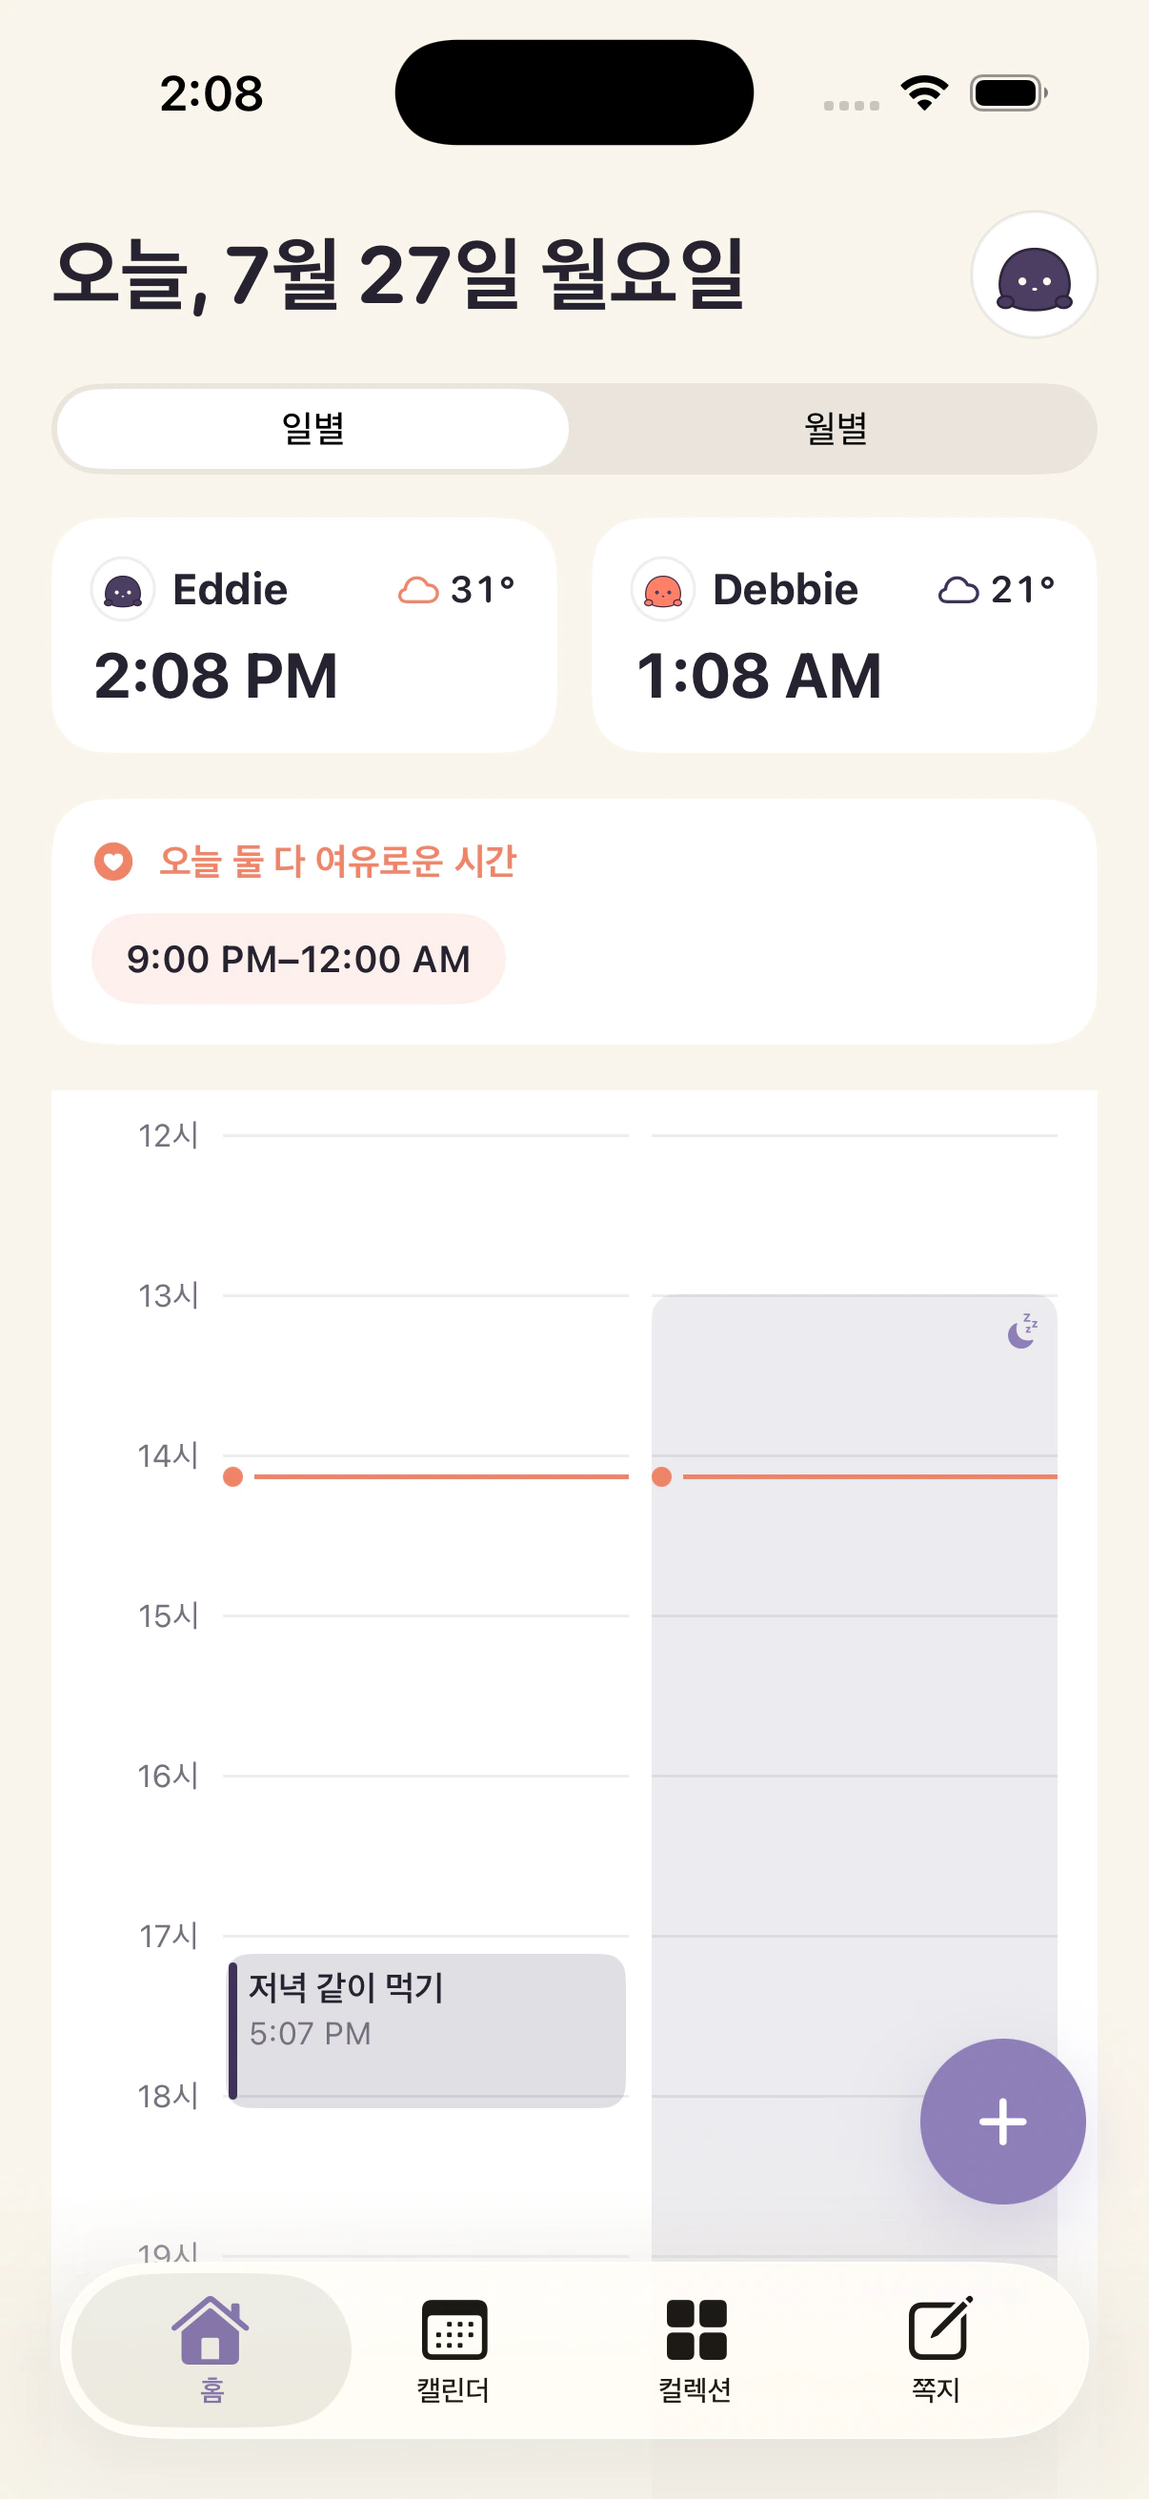
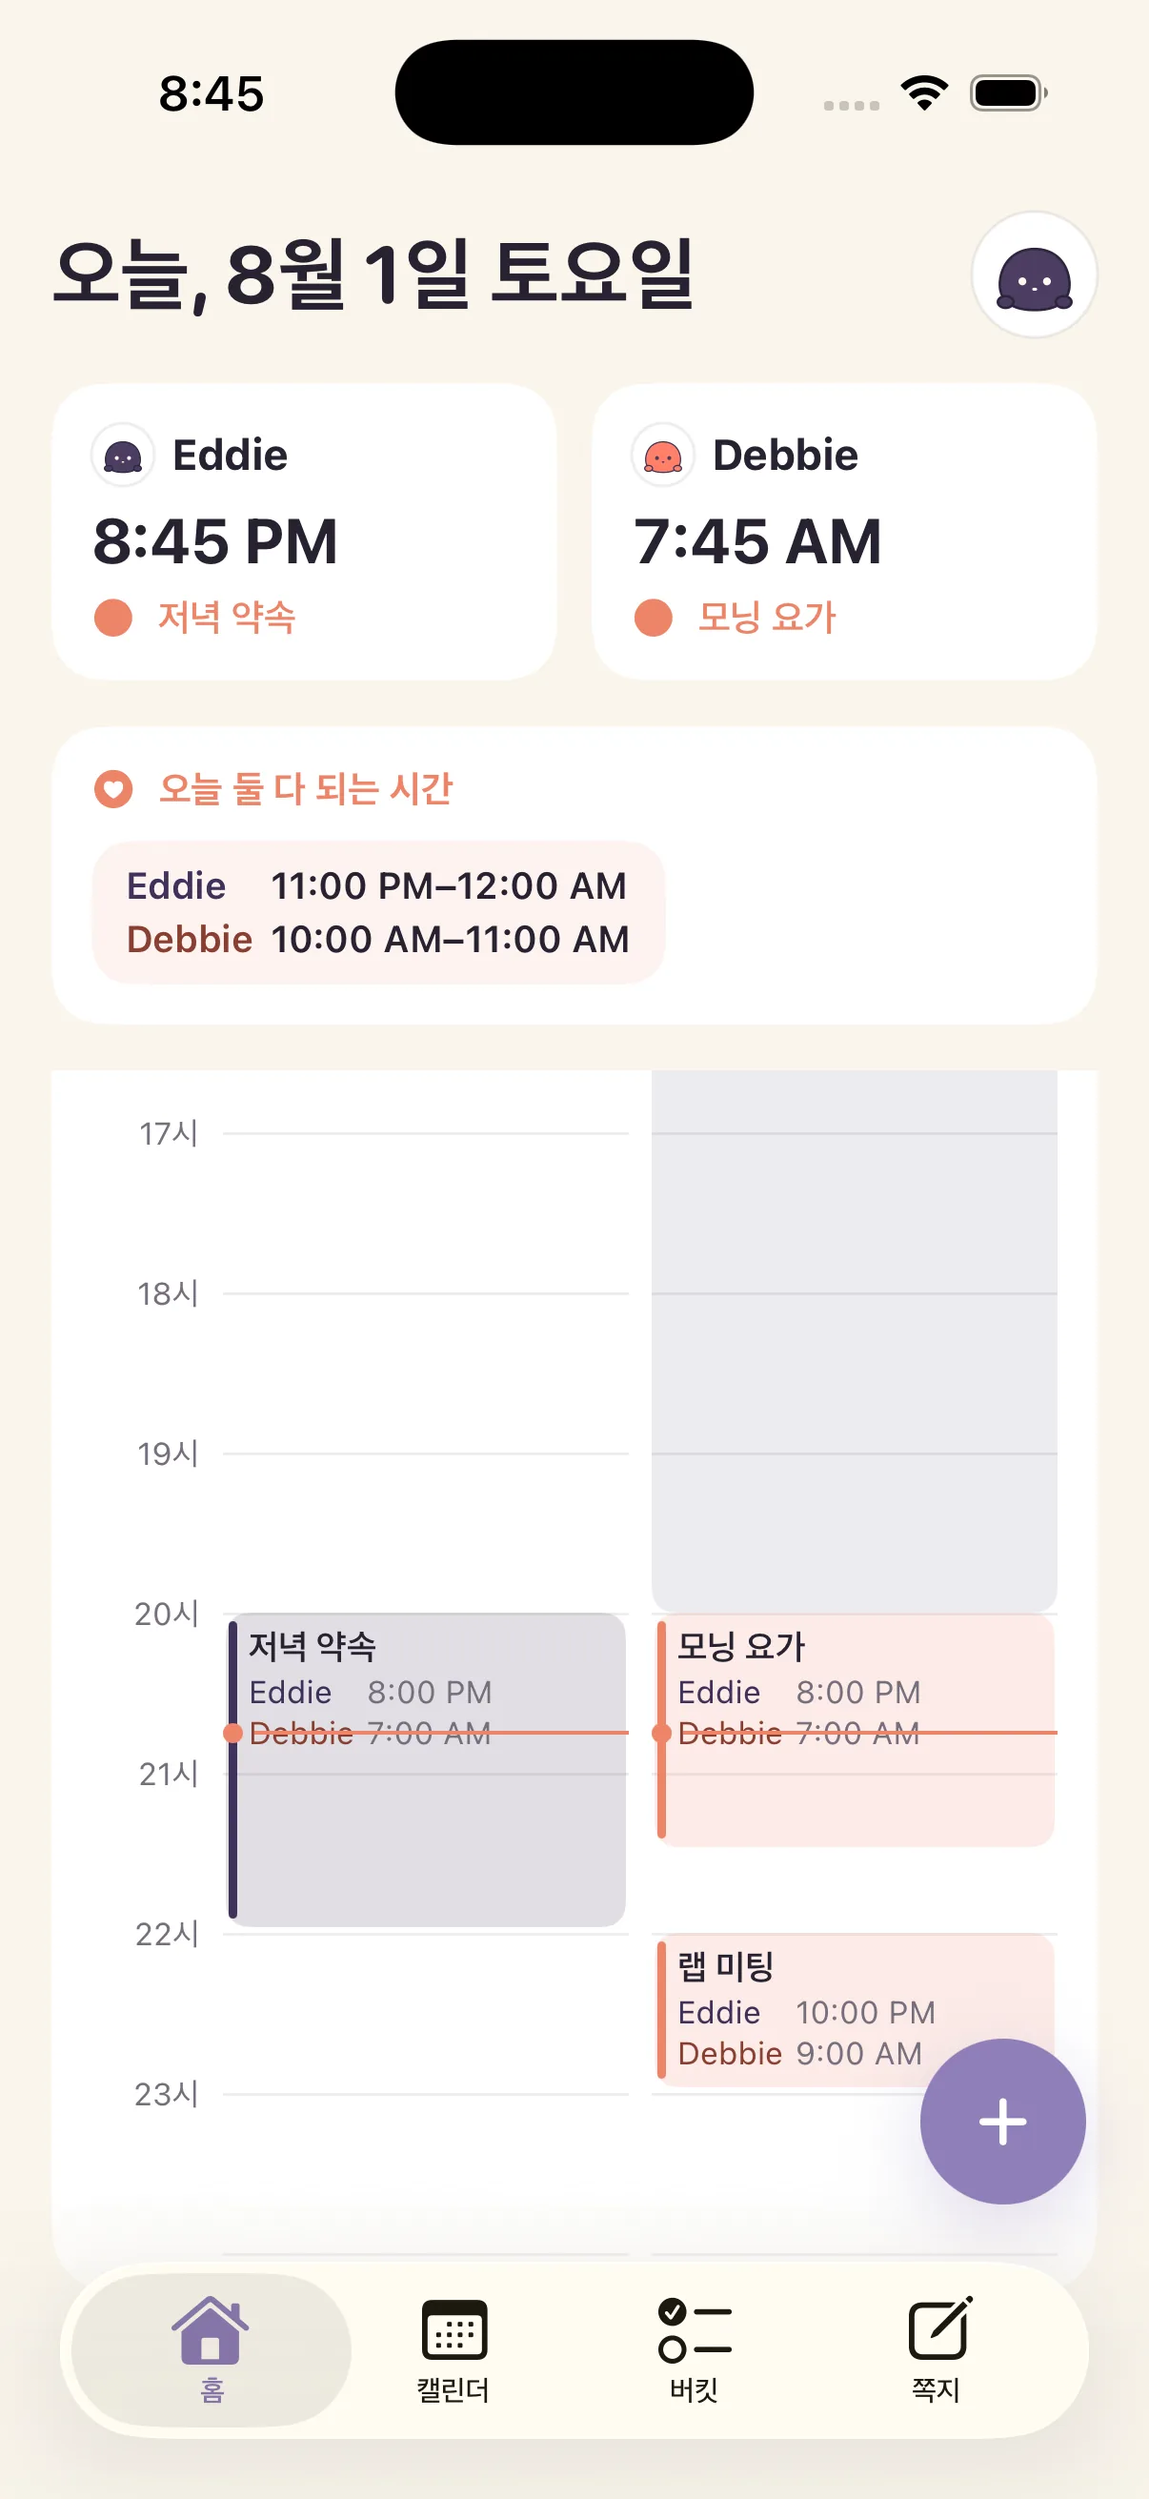
fix: 랜딩을 지금 앱과 같은 말·같은 화면으로 맞춘다
이용약관은 이미 구독을 반영했는데 랜딩 본문만 평생권 시절에 멈춰 있었다.
App Store의 마케팅 URL로 걸리는 페이지라 여기서 틀리면 심사관도 사용자도
같은 오해를 한다.

말:
- "Naru Plus" → "Naru 멤버십". 앱 안에는 Plus라는 말이 한 군데도 없다
- "컬렉션" → "버킷". 마찬가지로 앱은 버킷만 쓴다
- "함께 깨어 있는 시간"·"둘 다 여유로운 시간" → "둘 다 되는 시간".
  앱·위젯·알림이 전부 이 말을 쓴다
- 버킷 정원 50개 → 100개 (0062에서 올렸다)
- "결제수단 등록과 자동 결제 없음"이 이제 거짓이다. 월·연 구독은 자동 갱신된다.
  체험이 자동 결제되지 않는다는 사실만 남기고, 갱신·해지 조건을 약관과 같은
  내용으로 덧붙인다

화면:
- 스크린샷 다섯 장을 오늘 찍은 것으로 교체. 옛 이미지에는 "둘 다 여유로운 시간",
  없어진 일별/월별 토글, 탭바 "컬렉션"이 그대로 박혀 있었다
- 위젯 섹션을 실제 라인업(다이얼·둘 다 되는 시간·같은 하늘·상대의 하루·최근 쪽지)에 맞춤
- og 카드도 같은 문구로 다시 캡처

diff --git a/index.html b/index.html
@@ -7,19 +7,19 @@
   <meta name="google-site-verification" content="WSGyWVvkNUWFHzn_Nf76sFw_N04LbT2hM5UgcbsUwQw">
   <title>Naru — 서로의 오늘이, 한눈에 · 롱디 커플 앱</title>
   <meta name="application-name" content="Naru">
-  <meta name="description" content="함께 깨어 있는 시간을 찾아주는 커플 앱. 같이 있어도 좋지만 멀리 있을수록 더 필요해요. 앱을 만드는 두 사람이 롱디를 시작하며 직접 만들었습니다.">
+  <meta name="description" content="둘 다 되는 시간을 찾아주는 커플 앱. 하루 리듬이 다른 두 사람을 위해, 상대의 지금을 위젯 하나로 보여줍니다. 앱을 만드는 두 사람이 롱디를 시작하며 직접 만들었습니다.">
   <meta property="og:type" content="website">
   <meta property="og:locale" content="ko_KR">
   <meta property="og:site_name" content="Naru">
   <meta property="og:title" content="Naru — 서로의 오늘이, 한눈에">
-  <meta property="og:description" content="함께 깨어 있는 시간을, 나루가 찾아줘요. 같이 있어도 좋지만 멀리 있을수록 더 필요해요.">
+  <meta property="og:description" content="둘 다 되는 시간을, 나루가 찾아줘요. 멀리 있어도, 시간이 안 맞아도.">
   <!-- 공유 카드는 1200×630 PNG로 따로 만든다. 세로 스크린샷은 카드에서 잘리고,
        카카오톡·트위터 등 일부 크롤러는 WebP를 읽지 못한다.
        원본은 og-card.html이고, 문구를 바꾸면 거기서 다시 캡처한다. -->
   <meta property="og:image" content="https://naru-app.store/assets/og-card.png">
   <meta property="og:image:width" content="1200">
   <meta property="og:image:height" content="630">
-  <meta property="og:image:alt" content="Naru — 서로의 오늘이, 한눈에. 서울 오후 2시와 뉴욕 새벽 1시의 하루를 나란히 놓고 둘 다 여유로운 시간을 오후 9시부터 자정으로 찾아낸 카드">
+  <meta property="og:image:alt" content="Naru — 서로의 오늘이, 한눈에. 서울 오후 2시와 뉴욕 새벽 1시의 하루를 나란히 놓고 둘 다 되는 시간을 오후 9시부터 자정으로 찾아낸 카드">
   <meta name="twitter:card" content="summary_large_image">
   <meta name="twitter:image" content="https://naru-app.store/assets/og-card.png">
   <link rel="canonical" href="https://naru-app.store/">
@@ -50,7 +50,7 @@
       <nav aria-label="주요 메뉴">
         <a href="#widgets">위젯</a>
         <a href="#features">기능</a>
-        <a href="#plus">Naru Plus</a>
+        <a href="#plus">Naru 멤버십</a>
       </nav>
       <a class="header-action" href="#testflight">테스트 신청</a>
     </div>
@@ -62,8 +62,8 @@
         <p class="overline">Naru</p>
         <h1>서로의 오늘이,<br><em>한눈에.</em></h1>
         <p class="hero-description">
-          함께 깨어 있는 시간을, 나루가 찾아줘요.<br>
-          같이 있어도 좋지만 멀리 있을수록 더 필요해요.
+          둘 다 되는 시간을, 나루가 찾아줘요.<br>
+          멀리 있어도, 시간이 안 맞아도.
         </p>
         <div class="hero-actions">
           <a class="release-notice-button" href="#testflight">TestFlight 테스트 신청</a>
@@ -88,7 +88,7 @@
 
       <div class="hero-product" aria-label="Naru 홈 화면 실제 스크린샷">
         <figure class="device device-hero">
-          <img src="./assets/screens/home-new-york.webp" alt="Eddie와 Debbie의 현지 시간, 날씨와 하루 타임라인을 보여주는 Naru 홈 화면" width="1206" height="2622">
+          <img src="./assets/screens/home-new-york.webp" alt="Eddie의 저녁 8시 45분과 Debbie의 아침 7시 45분, 그리고 오늘 둘 다 되는 시간을 보여주는 Naru 홈 화면" width="1206" height="2622">
         </figure>
       </div>
     </section>
@@ -97,7 +97,7 @@
       <div class="overlap-proof-copy">
         <p class="overline">ONE MOMENT, TWO DAYS</p>
         <h2 id="overlap-proof-title">같은 순간을,<br>각자의 시간으로.</h2>
-        <p>내 일정과 상대 일정을 각자의 현지 시간에 맞춰, 둘 다 비는 시간까지 한 화면에 보여줘요.</p>
+        <p>내 일정과 상대 일정을 각자의 현지 시간에 맞춰, 둘 다 되는 시간까지 한 화면에 보여줘요.</p>
       </div>
       <div class="overlap-board" aria-label="서울과 뉴욕의 하루를 비교한 시간대 예시">
         <div class="overlap-row">
@@ -127,7 +127,7 @@
         <div class="overlap-result">
           <span class="overlap-result-line" aria-hidden="true"></span>
           <div>
-            <small>오늘 둘 다 여유로운 시간</small>
+            <small>오늘 둘 다 되는 시간</small>
             <strong>9:00 PM–12:00 AM</strong>
           </div>
           <span class="overlap-status">서울 기준</span>
@@ -167,7 +167,7 @@
     <section class="now-feature page-width">
       <div class="now-visual">
         <figure class="device device-detail">
-          <img src="./assets/screens/home-new-york.webp" alt="Eddie와 Debbie의 하루를 나란히 비교하는 Naru 실제 홈 화면" width="1206" height="2622">
+          <img src="./assets/screens/home-new-york.webp" alt="두 사람의 일정을 각자의 현지 시간으로 나란히 놓은 Naru 홈 타임라인" width="1206" height="2622">
         </figure>
       </div>
       <div class="now-copy">
@@ -183,8 +183,8 @@
         </article>
         <article>
           <span>03</span>
-          <h3>둘 다 여유로운 시간</h3>
-          <p>둘 다 깨어 있고 비는 구간을 찾아줘요.</p>
+          <h3>둘 다 되는 시간</h3>
+          <p>둘 다 여유로운 구간을 나루가 찾아줘요.</p>
         </article>
       </div>
     </section>
@@ -196,8 +196,8 @@
         <h2>앱을 열지 않아도,<br>서로의 오늘은 가까이에.</h2>
       </div>
       <p class="principle-copy">
-        상대의 시간·날씨·다음 일정은 <strong>연결만 하면 바로</strong> 홈 화면에 뜹니다.
-        같은 하늘, 붉은 실, 겹치는 시간처럼 둘을 한 장에 담는 위젯은 Plus에서 열려요.
+        상대의 시간과 하루는 <strong>연결만 하면 바로</strong> 홈 화면에 뜹니다.
+        같은 하늘, 상대의 하루, 둘 다 되는 시간, 최근 쪽지처럼 둘을 한 장에 담는 위젯은 멤버십에서 열려요.
       </p>
     </section>
 
@@ -220,27 +220,27 @@
           <p>다음 휴가, 포르투갈</p>
         </div>
         <figure class="widget-screenshot tilt-surface">
-          <img src="./assets/screens/widgets.webp" alt="Debbie의 현지 시간, 날씨와 팀 미팅을 보여주는 Naru 실제 iPhone 홈 화면 위젯" width="1206" height="2622">
+          <img src="./assets/screens/widgets.webp" alt="두 개의 링이 각자의 하루를 그리는 Naru 다이얼 위젯이 놓인 iPhone 홈 화면" width="1206" height="2622">
         </figure>
       </div>
       <div class="widget-copy">
         <article>
           <span>01</span>
-          <h3>그 사람의 지금</h3>
-          <p>상대의 현지 시간, 날씨와 다음 일정을 한눈에.</p>
+          <h3>두 사람의 다이얼</h3>
+          <p>두 개의 링이 각자의 하루를 그려요. 지금 어디쯤인지 한눈에.</p>
           <em class="widget-tier widget-tier-free">기본 제공</em>
         </article>
         <article>
           <span>02</span>
-          <h3>둘의 이번 주</h3>
-          <p>요일마다 둘 다 비는 시간이 코랄로 떠요.</p>
-          <em class="widget-tier widget-tier-plus">Naru Plus</em>
+          <h3>둘 다 되는 시간</h3>
+          <p>오늘 통화할 수 있는 구간이 바로 떠요.</p>
+          <em class="widget-tier widget-tier-plus">Naru 멤버십</em>
         </article>
         <article>
           <span>03</span>
-          <h3>다음 약속과 한마디</h3>
-          <p>최근 쪽지와 다음 만남 후보를 한 장에.</p>
-          <em class="widget-tier widget-tier-plus">Naru Plus</em>
+          <h3>같은 하늘 · 상대의 하루 · 최근 쪽지</h3>
+          <p>골라 담는 위젯 세 가지가 더 있어요.</p>
+          <em class="widget-tier widget-tier-plus">Naru 멤버십</em>
         </article>
       </div>
     </section>
@@ -277,12 +277,12 @@
 
       <article class="screen-story screen-story-collection tilt-card">
         <div class="story-copy">
-          <p class="story-index">COLLECTION · 02</p>
+          <p class="story-index">BUCKET · 02</p>
           <h3>발견한 순간 공유하고,<br>필요할 때 바로 찾아요.</h3>
-          <p>YouTube·Instagram·사진 앱에서 공유하면 링크, 글과 사진이 한 리스트에 저장돼요. 담은 시간과 태그를 보고 검색한 뒤, 눌러서 사진과 원문을 크게 확인할 수 있어요. 둘이 50개까지 꼭 보고 싶은 것만 가볍게 모아요.</p>
+          <p>YouTube·Instagram·사진 앱에서 공유하면 링크, 글과 사진이 한 리스트에 저장돼요. 담은 시간과 태그를 보고 검색한 뒤, 눌러서 사진과 원문을 크게 확인할 수 있어요. 둘이 100개까지 꼭 보고 싶은 것만 가볍게 모아요.</p>
         </div>
         <figure class="device device-gallery collection-device">
-          <img src="./assets/screens/collection.webp" alt="태그와 저장 시각, 링크 썸네일이 함께 보이는 Naru 컬렉션 실제 화면" width="1206" height="2622" loading="lazy">
+          <img src="./assets/screens/collection.webp" alt="태그와 담은 시각, 링크 썸네일이 함께 보이는 Naru 버킷 실제 화면" width="1206" height="2622" loading="lazy">
         </figure>
       </article>
 
@@ -300,11 +300,11 @@
 
     <section class="plus page-width" id="plus">
       <div class="plus-heading">
-        <p class="overline">NARU PLUS</p>
-        <h2>먼저 전부 써보고,<br>계속 쓸 땐 한 번만.</h2>
+        <p class="overline">NARU MEMBERSHIP</p>
+        <h2>먼저 전부 써보고,<br>계속 쓸 땐 한 사람만.</h2>
         <p class="plus-lead">
-          파트너와 처음 연결하는 순간 모든 Plus 기능이 7일 동안 열려요.
-          카드 등록도 자동 결제도 없이, 둘이 실제로 써본 뒤 결정하세요.
+          파트너와 처음 연결하는 순간 모든 기능이 7일 동안 열려요.
+          카드 등록도, 체험이 끝난 뒤 자동 결제도 없어요 — 둘이 실제로 써본 뒤 직접 고르면 됩니다.
         </p>
       </div>
 
@@ -315,20 +315,21 @@
           <ul>
             <li>상대의 현재 시간과 날씨</li>
             <li>Naru 공유 일정 확인</li>
-            <li>컬렉션과 쪽지</li>
+            <li>버킷과 쪽지</li>
             <li>기본 홈 화면 위젯</li>
           </ul>
         </article>
 
         <article class="plus-access-card plus-access-premium">
-          <p class="plus-access-label">처음 7일 모두 무료 · Naru Plus</p>
+          <p class="plus-access-label">처음 7일 모두 무료 · Naru 멤버십</p>
           <h3>시간을 맞추는 일은<br>Naru에게 맡겨요.</h3>
           <ul>
             <li><strong>공유 일정</strong>을 만들고 함께 수정</li>
             <li><strong>iPhone·Google Calendar</strong>에서 고른 일정 연동</li>
-            <li>둘 다 깨어 있고 <strong>여유로운 시간</strong> 자동 계산</li>
-            <li>둘의 일정·쪽지·컬렉션을 보여주는 <strong>추가 홈·잠금 위젯</strong></li>
+            <li><strong>둘 다 되는 시간</strong> 자동 계산</li>
+            <li>둘의 일정·쪽지·버킷을 보여주는 <strong>추가 홈·잠금 위젯</strong></li>
             <li><strong>Siri·단축어·제어 센터</strong>에서 바로 확인</li>
+            <li>상대의 변경이 <strong>기다리지 않고 바로</strong> 반영</li>
             <li>둘만의 Naru 캐릭터 소품</li>
           </ul>
         </article>
@@ -337,18 +338,25 @@
       <dl class="plus-facts">
         <div>
           <dt>7일</dt>
-          <dd>처음 연결한 순간<br>모든 Plus 기능이 열려요</dd>
+          <dd>처음 연결한 순간<br>모든 기능이 열려요</dd>
         </div>
         <div>
-          <dt>없음</dt>
-          <dd>결제수단 등록과<br>자동 결제</dd>
+          <dt>월·연</dt>
+          <dd>구독으로 이어가거나<br>언제든 해지</dd>
         </div>
         <div>
           <dt>평생</dt>
-          <dd>둘이 계속 쓰고 싶을 때만<br>한 번 구매</dd>
+          <dd>갱신 없이<br>한 번만 결제</dd>
         </div>
       </dl>
-      <p class="plus-footnote">체험이 끝나도 지난 일정과 둘이 쌓은 기록은 지워지지 않아요.</p>
+      <!-- 자동 갱신 구독을 파는 이상, 갱신 조건을 랜딩에서도 밝힌다.
+           앱 안 페이월과 이용약관 9조가 같은 말을 해야 한다. -->
+      <p class="plus-footnote">
+        멤버십은 <strong>한 사람만 결제하면 연결된 두 사람 모두</strong>에게 적용돼요.
+        월간·연간은 해지 전까지 자동 갱신되고 iOS 설정에서 언제든 해지할 수 있어요.
+        평생 이용권은 한 번 결제하면 갱신이 없습니다. 자세한 조건은 <a href="./terms.html">이용약관</a>에 있어요.
+        체험이 끝나도 지난 일정과 둘이 쌓은 기록은 지워지지 않아요.
+      </p>
     </section>
 
     <section class="trust page-width">
@@ -378,7 +386,7 @@
       </a>
       <p class="overline overline-light">TESTFLIGHT BETA</p>
       <h2>출시 전에,<br>먼저 써보실래요?</h2>
-      <p>App Store 출시 전 TestFlight로 Naru를 먼저 쓸 수 있어요. 이름과 이메일을 남겨주시면 초대장을 보내드릴게요. 처음 연결하면 모든 Plus 기능이 7일간 열리고 자동 결제는 없어요.</p>
+      <p>App Store 출시 전 TestFlight로 Naru를 먼저 쓸 수 있어요. 이름과 이메일을 남겨주시면 초대장을 보내드릴게요. 처음 연결하면 모든 기능이 7일간 열리고, 체험이 끝나도 자동으로 결제되지 않아요.</p>
 
       <form class="testflight-form" id="testflight-form" novalidate>
         <div class="testflight-fields">

diff --git a/og-card.html b/og-card.html
@@ -238,7 +238,7 @@
     <div class="result">
       <span class="result-line"></span>
       <div>
-        <small>오늘 둘 다 여유로운 시간</small>
+        <small>오늘 둘 다 되는 시간</small>
         <strong>9:00 PM–12:00 AM</strong>
       </div>
       <span class="status">서울 기준</span>
